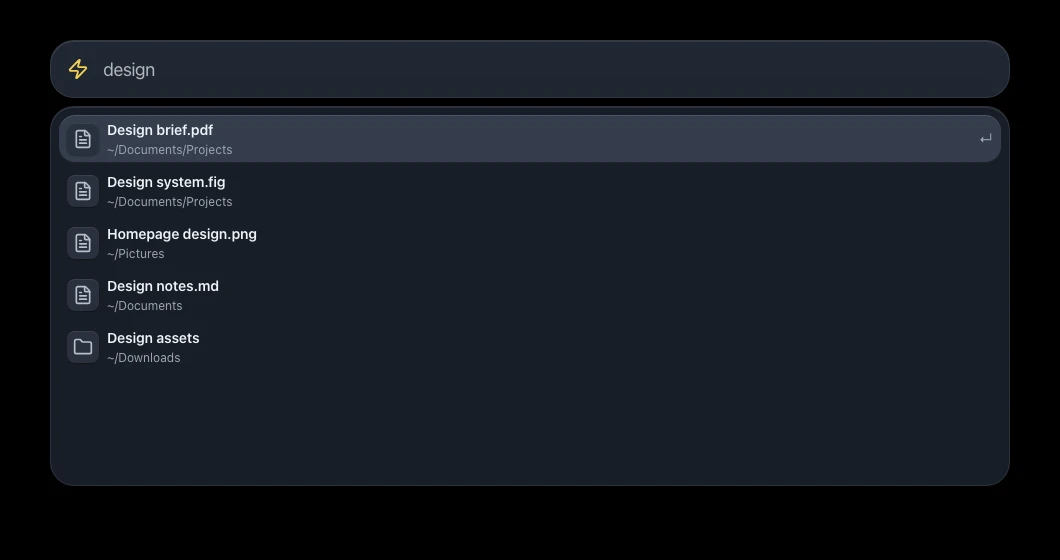
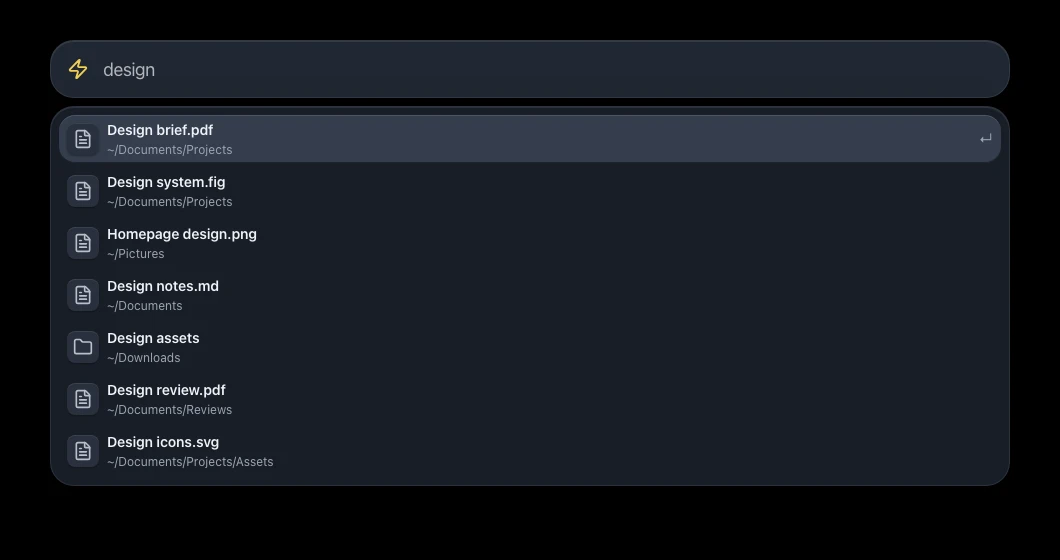
Fill built-in feature palette visuals with seven results each

Changed region(s): [[0.0623, 0.6679, 0.2491, 0.85]]

diff --git a/marketing/theme-switcher/src/builtin-features.tsx b/marketing/theme-switcher/src/builtin-features.tsx
@@ -11,6 +11,7 @@ const APPS = [
   { id: 'finder', title: 'Finder' },
   { id: 'photos', title: 'Photos' },
   { id: 'terminal', title: 'Terminal' },
+  { id: 'settings', title: 'System Settings' },
 ];
 const CLIPS = [
   {
@@ -49,6 +50,12 @@ const CLIPS = [
     subtitle: 'Text · 12 minutes ago',
     image: null,
   },
+  {
+    id: 'meadow',
+    title: 'Summer wallpaper.png',
+    subtitle: 'Image · 18 minutes ago',
+    image: 'meadow',
+  },
 ];
 
 const FILES = [
@@ -72,6 +79,18 @@ const FILES = [
   },
   { id: 'notes', title: 'Design notes.md', path: '~/Documents', folder: false },
   { id: 'assets', title: 'Design assets', path: '~/Downloads', folder: true },
+  {
+    id: 'review',
+    title: 'Design review.pdf',
+    path: '~/Documents/Reviews',
+    folder: false,
+  },
+  {
+    id: 'icons',
+    title: 'Design icons.svg',
+    path: '~/Documents/Projects/Assets',
+    folder: false,
+  },
 ];
 
 function ignore() {}
